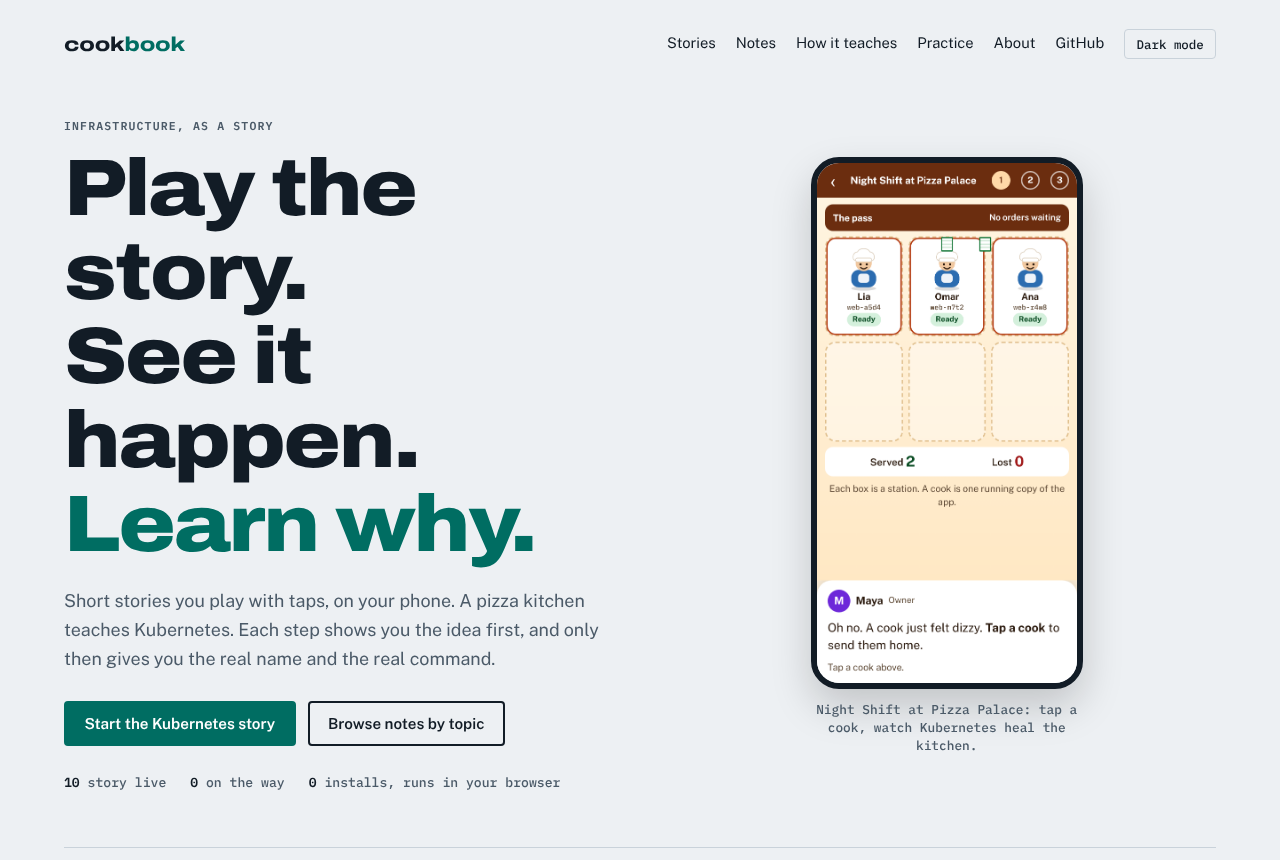
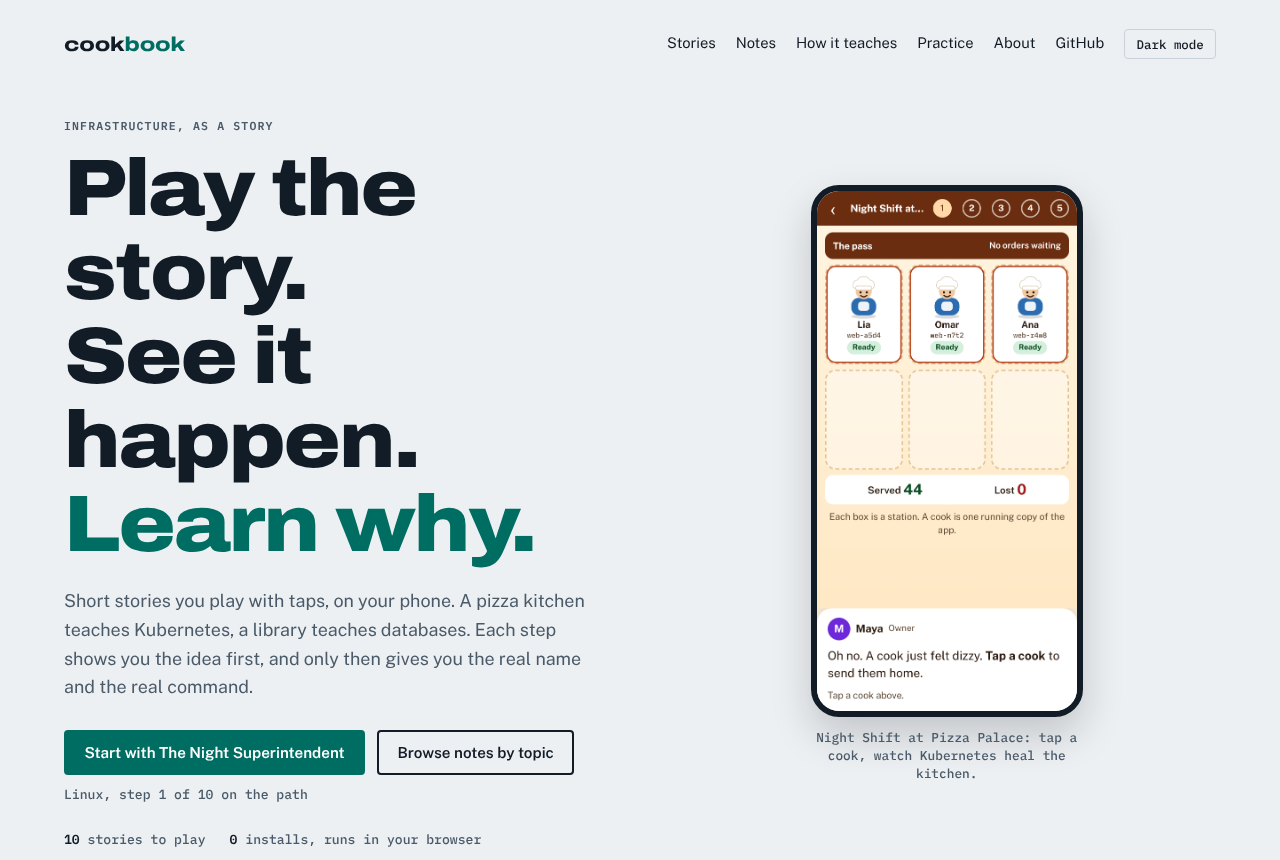
Learning path: recommended order as data, a Continue button, a path strip and Next links (#171)

diff --git a/docs/site/home.js b/docs/site/home.js
@@ -60,6 +60,60 @@ function tile(game) {
 let games = [];
 
 
+// The recommended order is data (games.json: "path", and each topic's "after"). With storage blocked every
+// story reads as not started, so the page degrades to "start with the first story on the path".
+let order = [];
+const storyOf = (id) => games.find((g) => g.id === id);
+const liveStory = (g) => g && g.story.status === 'live';
+const chaptersDone = (g) => Math.min(storyChaptersDone(g.id), g.story.chapters);
+const finished = (g) => chaptersDone(g) >= g.story.chapters;
+
+// What to do next: the story you are part-way through, else the first unfinished story on the path.
+function nextUp() {
+  const stories = order.map(storyOf).filter(liveStory);
+  const started = stories.find((g) => chaptersDone(g) > 0 && !finished(g));
+  const fresh = stories.find((g) => chaptersDone(g) === 0);
+  const anyDone = stories.some((g) => chaptersDone(g) > 0);
+  const game = started || fresh;
+  if (!game) return { kind: 'done', game: stories[0] };
+  const step = order.indexOf(game.id) + 1;
+  if (started) return { kind: 'continue', game, step, text: `Continue: ${game.story.title}`, note: `${game.short}, chapter ${chaptersDone(game) + 1} of ${game.story.chapters}` };
+  if (anyDone) return { kind: 'next', game, step, text: `Next: ${game.story.title}`, note: `${game.short}, step ${step} of ${order.length} on the path` };
+  return { kind: 'start', game, step, text: `Start with ${game.story.title}`, note: `${game.short}, step ${step} of ${order.length} on the path` };
+}
+
+// The hero's one obvious next action.
+function renderContinue() {
+  const button = document.getElementById('continue');
+  const note = document.getElementById('continue-note');
+  if (!button || !order.length) return;
+  const next = nextUp();
+  if (next.kind === 'done') {
+    button.textContent = 'Practise with the real commands';
+    button.setAttribute('href', '#board');
+    if (note) note.textContent = 'You have finished every story.';
+    return;
+  }
+  button.textContent = next.text;
+  button.setAttribute('href', next.game.story.path);
+  if (note) note.textContent = next.note;
+}
+
+// The path as a strip: every topic in the recommended order, finished ones ticked, the next one marked.
+function renderPath() {
+  const root = document.getElementById('path');
+  if (!root || !order.length) return;
+  const current = nextUp();
+  root.replaceChildren(...order.map((id, i) => {
+    const g = storyOf(id);
+    const live = liveStory(g);
+    const state = live && finished(g) ? 'done' : current.game && current.game.id === id && current.kind !== 'done' ? 'now' : 'todo';
+    const label = `${g.short}${state === 'done' ? ', finished' : state === 'now' ? ', next' : ''}`;
+    const inner = [el('span', { class: 'path-n', 'aria-hidden': 'true', text: state === 'done' ? '✓' : String(i + 1) }), el('span', { class: 'path-name', text: g.short })];
+    return el('li', { class: 'path-step', 'data-state': state }, live ? el('a', { href: g.story.path, 'aria-label': label, 'aria-current': state === 'now' ? 'step' : false }, inner) : el('span', {}, inner));
+  }));
+}
+
 // A story tile: the story is the front door to a topic. A planned story shows what it will be and where to follow it.
 function storyTile(game) {
   const story = game.story;
@@ -75,11 +129,14 @@ function storyTile(game) {
     );
   }
   const done = Math.min(storyChaptersDone(game.id), story.chapters);
+  const step = order.indexOf(game.id) + 1;
+  const after = (game.after || []).map((id) => storyOf(id)?.short).filter(Boolean);
   const label = done === 0 ? 'Start the story' : done < story.chapters ? 'Continue the story' : 'Play it again';
   return el(
     'article',
     { class: 'story-tile live' },
     el('div', { class: 'tile-top' }, mark, names, el('span', { class: 'status', text: 'Playable' })),
+    step ? el('p', { class: 'story-step', text: `Step ${step} of ${order.length}${after.length ? ` · best after ${after.join(' and ')}` : ''}` }) : null,
     el('p', { text: story.blurb }),
     el('ul', { class: 'chips' }, story.learns.map((c) => el('li', { text: c }))),
     el('div', { class: 'tile-progress' },
@@ -104,8 +161,14 @@ async function board() {
   try {
     const res = await fetch(new URL('../games/games.json', import.meta.url));
     if (!res.ok) throw new Error(`games.json: HTTP ${res.status}`);
-    games = (await res.json()).games;
-    const ordered = [...games].sort((a, b) => (b.story.status === 'live') - (a.story.status === 'live'));
+    const manifest = await res.json();
+    games = manifest.games;
+    order = (manifest.path || []).filter((id) => storyOf(id));
+    // Stories follow the path; anything not on it (and planned stories) comes after.
+    const rank = (g) => (order.includes(g.id) ? order.indexOf(g.id) : order.length) + (g.story.status === 'live' ? 0 : 100);
+    const ordered = [...games].sort((a, b) => rank(a) - rank(b));
+    renderContinue();
+    renderPath();
     storyRoot.replaceChildren(...ordered.map(storyTile));
     root.replaceChildren(...games.map(tile));
     document.querySelectorAll('.note-topic[data-topic]').forEach((card) => {
@@ -118,6 +181,8 @@ async function board() {
     const set = (name, value) => document.querySelectorAll(`[data-stat="${name}"]`).forEach((n) => (n.textContent = value));
     set('stories-live', stories.length);
     set('stories-planned', games.length - stories.length);
+    const planned = document.getElementById('planned-fact');
+    if (planned) planned.hidden = games.length - stories.length === 0;
     set('live', live.length);
     set('levels', live.reduce((sum, g) => sum + g.levels, 0));
     set('live-word', WORDS[live.length] || String(live.length));

diff --git a/docs/site/home.css b/docs/site/home.css
@@ -37,6 +37,7 @@ code, kbd { font-family: var(--font-mono); }
 .btn:hover { background: var(--surface-2); }
 .btn.primary { background: var(--accent); border-color: var(--accent); color: var(--accent-ink); }
 .btn.primary:hover { filter: brightness(1.08); background: var(--accent); }
+.cta-note { margin: 0.7rem 0 0; font: 500 0.82rem/1.3 var(--font-mono); color: var(--muted); }
 .facts { display: flex; flex-wrap: wrap; gap: 0.5rem 1.5rem; margin: 1.75rem 0 0; padding: 0; list-style: none; font: 500 0.82rem/1.3 var(--font-mono); color: var(--muted); }
 .facts strong { color: var(--ink); font-weight: 600; }
 
@@ -51,9 +52,9 @@ section.block { padding-block: 3rem; border-top: 1px solid var(--line); }
 .tile { display: flex; flex-direction: column; gap: 0.7rem; min-width: 0; padding: 1.1rem; border: 1px solid var(--line); border-radius: 6px; background: var(--surface); text-decoration: none; color: inherit; }
 .tile.live:hover { border-color: var(--accent); box-shadow: 0 0 0 1px var(--accent); }
 .tile.queued { background: transparent; border-style: dashed; }
-.tile-top { display: flex; align-items: center; gap: 0.75rem; }
+.tile-top { display: flex; flex-wrap: wrap; align-items: center; gap: 0.5rem 0.75rem; }
 .mark { flex: none; display: grid; place-items: center; width: 2.6rem; height: 2.6rem; border-radius: 4px; background: var(--c); color: var(--on-hue); font: 700 0.9rem/1 var(--font-mono); }
-.tile-top .names { min-width: 0; }
+.tile-top .names { flex: 1 1 11rem; min-width: 0; }
 .tile-top h3 { font-size: 1.25rem; font-weight: 800; }
 .topic { font: 500 0.78rem/1.2 var(--font-mono); color: var(--muted); }
 .status { margin-left: auto; flex: none; display: inline-flex; align-items: center; gap: 0.4rem; font: 600 0.72rem/1 var(--font-mono); text-transform: uppercase; letter-spacing: 0.06em; }
@@ -125,3 +126,13 @@ footer a { text-underline-offset: 3px; }
 .board-foot { display: flex; flex-wrap: wrap; align-items: center; gap: 0.5rem 1rem; margin: 1.25rem 0 0; font-size: 0.88rem; color: var(--muted); }
 .board-foot button { font: 500 0.78rem/1 var(--font-mono); padding: 0.5rem 0.7rem; border: 1px solid var(--line); border-radius: var(--radius-s); background: transparent; color: var(--ink); cursor: pointer; }
 .board-foot button:hover { border-color: var(--bad); }
+
+/* the recommended path: a numbered strip, finished topics ticked, the next one marked */
+.path { display: flex; flex-wrap: wrap; gap: 0.5rem; margin: 0 0 1.5rem; padding: 0; list-style: none; counter-reset: none; }
+.path-step a, .path-step > span { display: inline-flex; align-items: center; gap: 0.5rem; min-height: 2.75rem; padding: 0.3rem 0.85rem 0.3rem 0.4rem; border: 1px solid var(--line); border-radius: 999px; background: var(--surface); color: var(--ink); font: 600 0.85rem/1 var(--font-body); text-decoration: none; }
+.path-step a:hover { background: var(--surface-2); }
+.path-n { display: inline-grid; place-items: center; width: 1.7rem; height: 1.7rem; border-radius: 50%; background: var(--surface-2); font: 700 0.78rem/1 var(--font-mono); }
+.path-step[data-state="done"] .path-n { background: var(--accent); color: var(--accent-ink); }
+.path-step[data-state="now"] a { border: 2px solid var(--accent); }
+.path-step[data-state="now"] .path-n { background: var(--accent); color: var(--accent-ink); }
+.story-step { margin: 0; font: 600 0.78rem/1.3 var(--font-mono); color: var(--muted); }

diff --git a/docs/site/index.html b/docs/site/index.html
@@ -38,14 +38,15 @@
       <div>
         <p class="label hero-kicker">Infrastructure, as a story</p>
         <h1>Play the story.<br>See it happen.<br><em>Learn why.</em></h1>
-        <p class="lead">Short stories you play with taps, on your phone. A pizza kitchen teaches Kubernetes. Each step shows you the idea first, and only then gives you the real name and the real command.</p>
+        <p class="lead">Short stories you play with taps, on your phone. A pizza kitchen teaches Kubernetes, a library teaches databases. Each step shows you the idea first, and only then gives you the real name and the real command.</p>
         <div class="cta">
-          <a class="btn primary" href="docs/stories/kubernetes/">Start the Kubernetes story</a>
+          <a class="btn primary" id="continue" href="docs/stories/linux/">Start with the Linux story</a>
           <a class="btn" href="#notes">Browse notes by topic</a>
         </div>
+        <p class="cta-note" id="continue-note">Linux, step 1 of 10 on the path</p>
         <ul class="facts">
-          <li><strong data-stat="stories-live">1</strong> story live</li>
-          <li><strong data-stat="stories-planned">9</strong> on the way</li>
+          <li><strong data-stat="stories-live">10</strong> stories to play</li>
+          <li id="planned-fact" hidden><strong data-stat="stories-planned">0</strong> on the way</li>
           <li><strong>0</strong> installs, runs in your browser</li>
         </ul>
       </div>
@@ -60,10 +61,13 @@
       <div class="sec-head">
         <p class="label">Stories</p>
         <h2 id="stories-h">One story per topic.</h2>
-        <p>Each story is three or four short chapters. Start with the one that is live; the others are being written, in this order.</p>
+        <p>Each story is three or four short chapters. Not sure where to start? Follow the path from the top, or jump to any topic: the order is a suggestion, not a lock.</p>
       </div>
+      <ol class="path" id="path" aria-label="Recommended order">
+        <li class="path-step" data-state="now"><a href="docs/stories/linux/"><span class="path-n" aria-hidden="true">1</span><span class="path-name">Linux</span></a></li>
+      </ol>
       <div class="board" id="story-tiles">
-        <noscript><p>The story board needs JavaScript. Start with <a href="docs/stories/kubernetes/">the Kubernetes story</a>.</p></noscript>
+        <noscript><p>The story board needs JavaScript. Start with <a href="docs/stories/linux/">the Linux story</a>.</p></noscript>
       </div>
     </section>
 

diff --git a/docs/stories/shared/story.js b/docs/stories/shared/story.js
@@ -28,6 +28,24 @@ export const ROOT = new URL('../../../', import.meta.url);
 export const siteUrl = (path) => new URL(path, ROOT).href;
 
 // End-of-story links to the practice game, one per level: [[levelId, label], ...] (the game opens on that level).
+// The story that follows this one on the recommended path (docs/games/games.json: "path"), or null: the last
+// story, a story not on the path, or games.json not loading all mean no "Next" link.
+async function nextInPath(id) {
+  try {
+    const res = await fetch(siteUrl('docs/games/games.json'));
+    if (!res.ok) return null;
+    const { path = [], games = [] } = await res.json();
+    const from = path.indexOf(id);
+    for (let i = from + 1; from >= 0 && i < path.length; i += 1) {
+      const g = games.find((x) => x.id === path[i]);
+      if (g && g.story && g.story.status === 'live') return { text: `Next: ${g.story.title} (${g.short || g.topic})`, href: siteUrl(g.story.path) };
+    }
+  } catch {
+    // Offline or blocked: the ending still has its own links.
+  }
+  return null;
+}
+
 export const practiceLinks = (game, levels) => levels.map(([id, text]) => ({ text: `Practice: ${text}`, href: new URL(`${game}/?level=${id}`, siteUrl('docs/games/')).href }));
 export const sleep = (ms) => new Promise((r) => setTimeout(r, FAST ? Math.min(ms, 15) : ms));
 
@@ -197,12 +215,16 @@ function createUI(app, config) {
     const rows = notebook.map((n) => h('li', { class: 'ks-end-item' },
       h('div', { class: 'ks-end-maps' }, n.maps.map(([k, r]) => h('span', { class: 'ks-end-map' }, k, ' → ', h('code', { text: r })))),
       h('p', { class: 'ks-end-plain' }, ...rich(n.plain))));
+    const links = h('div', { class: 'ks-links' }, config.endLinks.map((l) => h('a', { class: 'ks-link', href: l.href, text: l.text })));
+    nextInPath(config.id).then((next) => {
+      if (next) links.prepend(h('a', { class: 'ks-link ks-link-next', href: next.href, text: next.text }));
+    });
     show(true,
       h('p', { class: 'ks-kicker', text: config.endKicker }),
       h('h2', { class: 'ks-h', text: config.endTitle }),
       h('p', { class: 'ks-say', text: config.endIntro }),
       h('ul', { class: 'ks-end-list' }, rows),
-      h('div', { class: 'ks-links' }, config.endLinks.map((l) => h('a', { class: 'ks-link', href: l.href, text: l.text }))),
+      links,
       h('div', { class: 'ks-actions' }, h('button', { class: 'ks-btn alt', type: 'button', 'data-action': 'replay', text: 'Play the story again' })));
   };
   return ui;

diff --git a/scripts/check_games.py b/scripts/check_games.py
@@ -256,15 +256,49 @@ def check_story(g: dict, where: str) -> list[str]:
     return errors
 
 
+def check_path(manifest: dict, games: list, rel: Path) -> list[str]:
+    """The recommended learning path (home page, Learn page, end of each story) is data: "path" is the order and
+    each game's "after" lists the topics worth doing first. Every topic is on the path once, "after" names real
+    topics that come earlier on the path, so there are no cycles and no unknown topics."""
+    errors: list[str] = []
+    ids = [g.get("id") for g in games if isinstance(g, dict)]
+    order = manifest.get("path")
+    if not isinstance(order, list) or not all(isinstance(x, str) for x in order):
+        return [f"{rel}: needs a top-level \"path\": a list of topic ids in the recommended order"]
+    for gid in order:
+        if gid not in ids:
+            errors.append(f"{rel}: path lists {gid!r}, which is not a topic in games")
+    for gid in ids:
+        if order.count(gid) != 1:
+            errors.append(f"{rel}: topic {gid!r} must appear exactly once in path (found {order.count(gid)})")
+    position = {gid: i for i, gid in enumerate(order)}
+    for g in games:
+        gid = g.get("id")
+        after = g.get("after", [])
+        if not isinstance(after, list) or not all(isinstance(x, str) for x in after):
+            errors.append(f"{rel}: {gid}: after must be a list of topic ids")
+            continue
+        for dep in after:
+            if dep not in ids:
+                errors.append(f"{rel}: {gid}: after names {dep!r}, which is not a topic")
+            elif dep == gid:
+                errors.append(f"{rel}: {gid}: after lists itself")
+            elif gid in position and dep in position and position[dep] > position[gid]:
+                errors.append(f"{rel}: {gid}: after {dep!r}, but {dep!r} comes later on the path (a cycle or a wrong order)")
+    return errors
+
+
 def check_manifest(game_dirs: list[Path]) -> list[str]:
     """docs/games/games.json drives the home page's board, so it must agree with the game directories."""
     path = GAMES_DIR / "games.json"
     rel = path.relative_to(REPO_ROOT)
     errors: list[str] = []
     try:
-        games = json.loads(path.read_text(encoding="utf-8"))["games"]
+        manifest = json.loads(path.read_text(encoding="utf-8"))
+        games = manifest["games"]
     except (OSError, ValueError, KeyError) as exc:
         return [f"{rel}: cannot read a top-level \"games\" list ({exc})"]
+    errors.extend(check_path(manifest, games, rel))
     seen: set[str] = set()
     for i, g in enumerate(games):
         gid = g.get("id") if isinstance(g, dict) else None
@@ -273,7 +307,7 @@ def check_manifest(game_dirs: list[Path]) -> list[str]:
             errors.append(f"{rel}: games[{i}] needs a unique string id")
             continue
         seen.add(gid)
-        for key in ("title", "topic", "code", "hue", "notes"):
+        for key in ("title", "topic", "short", "code", "hue", "notes"):
             if not isinstance(g.get(key), str) or not g[key]:
                 errors.append(f"{where}: needs a non-empty {key}")
         if isinstance(g.get("notes"), str) and not (REPO_ROOT / g["notes"]).is_dir():

diff --git a/docs/learn.md b/docs/learn.md
@@ -7,19 +7,25 @@ Every topic is taught three ways. Start with the **story** if you are new to it,
 for the detail, and use the **practice game** to try the real commands. A story or game sends you to
 the exact note section behind each idea, and every topic page shows a banner linking to both.
 
-| Topic | Notes | Story | Practice |
-| --- | --- | --- | --- |
-| [Kubernetes](../topics/kubernetes/README.md) | Pods, probes, config, scaling | [Night Shift at Pizza Palace](stories/kubernetes/index.md) | [Chaos Monkey Cluster](games/kubernetes/index.md) |
-| [Docker](../topics/docker/README.md) | Images, multi-stage builds, caching | coming | [Layer Cake](games/docker/index.md) |
-| [Terraform](../topics/terraform/README.md) | Plan, state, workspaces, locks | coming | [Drift Detective](games/terraform/index.md) |
-| [Linux](../topics/linux/README.md) | Shell, text tools, systemd | coming | [Night Shift](games/linux/index.md) |
-| [CI/CD](../topics/cicd/README.md) | Actions, patterns, deploy strategies | coming | [Pipeline Panic](games/cicd/index.md) |
-| [GitHub](../topics/github/README.md) | Git, the gh CLI, repo settings | coming | [Merge Conflict Rush](games/github/index.md) |
-| [Observability](../topics/observability/README.md) | Prometheus, alerts, dashboards | coming | [Quiet Hours](games/observability/index.md) |
-| [Database](../topics/database/README.md) | Schemas, migrations, indexes | coming | [Index Fund](games/database/index.md) |
-| [Agent Skills](../topics/skills/README.md) | What they are, how to write one | coming | [Skill Issue](games/skills/index.md) |
-| [MCP](../topics/mcp/README.md) | The protocol, Claude Code, servers | coming | [Patch Bay](games/mcp/index.md) |
-| [Capstone](../topics/capstone/README.md) | Ship a monitored service, end to end | | |
+## A path through the topics
+
+New to infrastructure? Follow the order below: each topic leans on the ones before it. It is a
+suggestion, not a lock, so jump straight to any topic you need. The home page shows
+the same path and a **Continue** button that remembers where you were, in this browser only.
+
+| Step | Topic | Notes | Story | Practice | Best after |
+| --- | --- | --- | --- | --- | --- |
+| 1 | [Linux](../topics/linux/README.md) | Shell, text tools, systemd | [The Night Superintendent](stories/linux/index.md) | [Night Shift](games/linux/index.md) | nothing |
+| 2 | [GitHub](../topics/github/README.md) | Git, the gh CLI, repo settings | [The Shared Cookbook](stories/github/index.md) | [Merge Conflict Rush](games/github/index.md) | nothing |
+| 3 | [Docker](../topics/docker/README.md) | Images, multi-stage builds, caching | [The Layer Cake](stories/docker/index.md) | [Layer Cake](games/docker/index.md) | Linux |
+| 4 | [Kubernetes](../topics/kubernetes/README.md) | Pods, probes, config, scaling | [Night Shift at Pizza Palace](stories/kubernetes/index.md) | [Chaos Monkey Cluster](games/kubernetes/index.md) | Docker |
+| 5 | [CI/CD](../topics/cicd/README.md) | Actions, patterns, deploy strategies | [The Assembly Line](stories/cicd/index.md) | [Pipeline Panic](games/cicd/index.md) | GitHub, Docker |
+| 6 | [Terraform](../topics/terraform/README.md) | Plan, state, workspaces, locks | [The Drift Detective](stories/terraform/index.md) | [Drift Detective](games/terraform/index.md) | Linux |
+| 7 | [Observability](../topics/observability/README.md) | Prometheus, alerts, dashboards | [Quiet Hours](stories/observability/index.md) | [Quiet Hours](games/observability/index.md) | Kubernetes |
+| 8 | [Database](../topics/database/README.md) | Schemas, migrations, indexes | [The Card Catalogue](stories/database/index.md) | [Index Fund](games/database/index.md) | Linux |
+| 9 | [Agent Skills](../topics/skills/README.md) | What they are, how to write one | [The New Hire](stories/skills/index.md) | [Skill Issue](games/skills/index.md) | nothing |
+| 10 | [MCP](../topics/mcp/README.md) | The protocol, Claude Code, servers | [The Switchboard](stories/mcp/index.md) | [Patch Bay](games/mcp/index.md) | Agent Skills |
+| | [Capstone](../topics/capstone/README.md) | Ship a monitored service, end to end | | | The topics above |
 
 Prefer to browse by area? [Infrastructure](infrastructure.md), [Delivery](delivery.md),
 [Operations](operations.md) and [AI Tooling](ai-tooling.md) group the same topics.

diff --git a/CONTRIBUTING.md b/CONTRIBUTING.md
@@ -188,6 +188,11 @@ To add a story `docs/stories/<id>/`:
    `mkdocs.yml` and its URL to `scripts/site_urls.txt`, and change the topic's `story` entry in
    `docs/games/games.json` from `planned` to `live` (`path`, `blurb`, `chapters`, `learns`): that is what the
    home page's story board, the topic cards and the banners on the notes read (`check_games.py` checks it).
+   The learning path is data too: `games.json` has a top-level `path` (every topic id once, in the recommended
+   order) and each topic has a `short` name and `after` (the topics worth doing first, all earlier on the
+   path). The home page's **Continue** button and path strip, the Learn page and the "Next" link at the end of
+   each story read them, and `check_games.py` fails on an unknown topic, a topic missing from or repeated in
+   the path, or an `after` that points forward (a cycle). `docs/learn.md` lists the path by hand; update it too.
 2. `story.js`: export `mountStory(host)` that calls the shared `mountStory(host, config)` with the story's
    `id`, `title`, `characters`, `chapters`, `createStage(app)` (build the stage into `app.stage`, return an object
    with `reset()` and `stop()`), the card and ending texts, and `endLinks` to the notes and the practice game.
